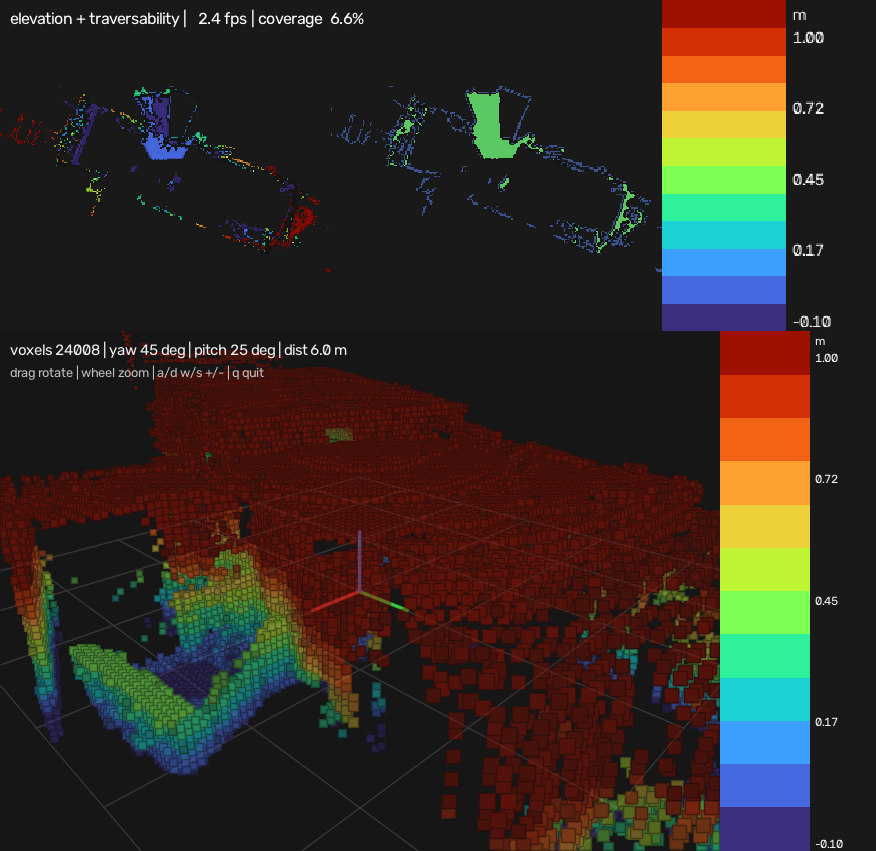
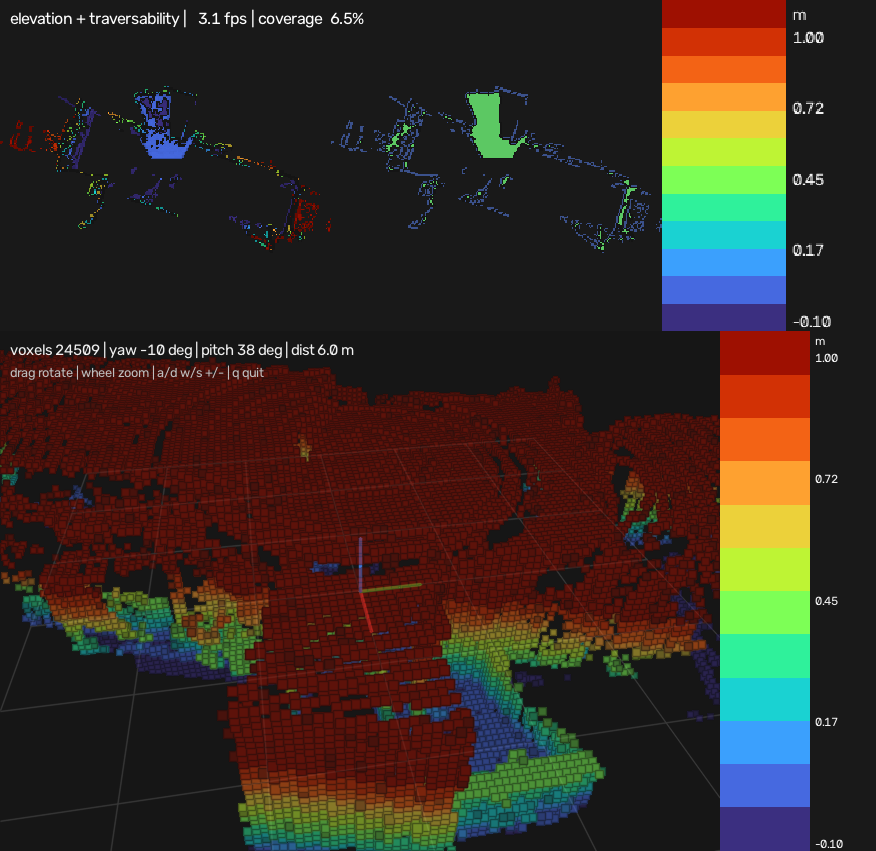
feat(viz): start 3D view at preferred framing
- default yaw -10 deg and pitch 38 deg for the single-window 3D panel
- regenerate the D435i and Airy screenshots at that framing and update metrics

diff --git a/src/pico_elevationmap/viz/viewer.py b/src/pico_elevationmap/viz/viewer.py
@@ -43,8 +43,8 @@ class SingleWindowViewer:
         self.voxel_alpha = float(voxel_alpha)
         self.title = title
         self._state = {
-            "yaw": math.radians(45.0),
-            "pitch": math.radians(25.0),
+            "yaw": math.radians(-10.0),
+            "pitch": math.radians(38.0),
             "distance": 6.0,
             "drag": None,
         }

diff --git a/docs/sensor-profiles.md b/docs/sensor-profiles.md
@@ -205,8 +205,8 @@ Y = (v - cy) * Z / fy
   实测约 8–10 Hz、6.5–7.1 万点/帧；
 - 运行：`realsense_live.py --lidar-topic /rslidar_points`，使用
   `.venv-ros`（`--system-site-packages`）同时看到 rclpy 与项目依赖；
-- 结果：30 个相机帧融合了 15 个 LiDAR 帧，12 m 地图覆盖率 6.6%
-  （3774/57600 cells），3D 概率体素视图约 2.4 万格；相机建图均值约 4.5 ms/step
+- 结果：30 个相机帧融合了 9–15 个 LiDAR 帧，12 m 地图覆盖率 6.5–6.6%
+  （约 3.7k/57600 cells），3D 概率体素视图约 2.4 万格；相机建图均值约 4.5 ms/step
   （不含 ROS/LiDAR 接收与渲染）；
 - 限制：当前用相机 stamp 作为统一时间戳，未做 LiDAR/相机硬件时间同步；外参做了
   旋转后自动地面 z 对齐 + 手动 `--lidar-roll/--lidar-pitch/--lidar-yaw/--lidar-offset`

diff --git a/docs/development.md b/docs/development.md
@@ -227,8 +227,8 @@ source /path/to/rslidar_ws/install/setup.bash
     --save maps/dual_map.npz --export-ply maps/dual.ply
 ```
 
-本机实测：Airy 约 8–10 Hz、6.5–7.1 万点/帧；30 个相机帧融合 15 个 LiDAR 帧，
-12 m 地图覆盖率 6.6%，3D 概率体素视图约 2.4 万格。当前用相机 stamp 统一对齐，
+本机实测：Airy 约 8–10 Hz、6.5–7.1 万点/帧；30 个相机帧融合 9–15 个 LiDAR 帧，
+12 m 地图覆盖率 6.5–6.6%，3D 概率体素视图约 2.4 万格。当前用相机 stamp 统一对齐，
 LiDAR 时间戳未参与位姿插值；外参用 `--lidar-roll` / `--lidar-pitch` /
 `--lidar-yaw` / `--lidar-offset` 手工微调。默认 LiDAR z 轴朝上；**倒装时加
 `--lidar-roll 180`（绕 x 翻转）或 `--lidar-pitch 180`（绕 y 翻转）**，自动地面

diff --git a/CHANGELOG.md b/CHANGELOG.md
@@ -14,7 +14,8 @@ The project is pre-1.0: minor releases may contain breaking changes.
   Chinese entry point; detailed live-sensor, ROS2 launch and Foxglove instructions live
   in `docs/development.md`.
 - Regenerated `docs/assets/realsense_window.png` and `docs/assets/dual_voxel.png` with
-  the probability voxel renderer.
+  the probability voxel renderer at the preferred 3D framing (yaw −10°, pitch 38°,
+  distance 6 m); the viewer now starts at that framing by default.
 
 ### Changed
 
